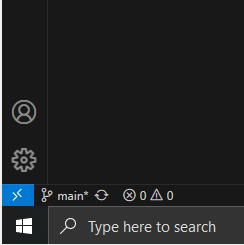
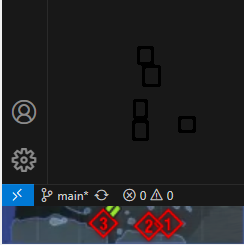
stream=true works

Changed region(s): [[0.0, 0.8286, 1.0, 1.0]]

diff --git a/object_tracking.py b/object_tracking.py
@@ -48,14 +48,18 @@ def update():
     #cv2.imshow('Python Window', screen)
     transparent_img = np.zeros((img_height, img_width, n_channels), dtype=np.uint8)
     # run the YOLO model on the frame
-    detections = model.predict("ss.png")
-    result = detections[0]
+    detections = model.predict("ss.png",stream=True)
     # loop over the detections
-    for box in result.boxes:
-        x1, y1, x2, y2 = [
-          round(x) for x in box.xyxy[0].tolist()
-        ]
-        cv2.rectangle(transparent_img, (x1, y1+1194) , (x2, y2+1194), GREEN, 2)
+    for result in detections:
+        boxes = result.boxes
+        masks = result.masks
+        probs = result.probs
+        boxarray = boxes.cpu().xyxy.numpy()
+        for box in boxarray:
+          x1, y1, x2, y2 = [
+            round(x) for x in box.tolist()
+          ]
+          cv2.rectangle(transparent_img, (x1, y1+1194) , (x2, y2+1194), GREEN, 2)
 
     # end time to compute the fps
     end = datetime.datetime.now()
